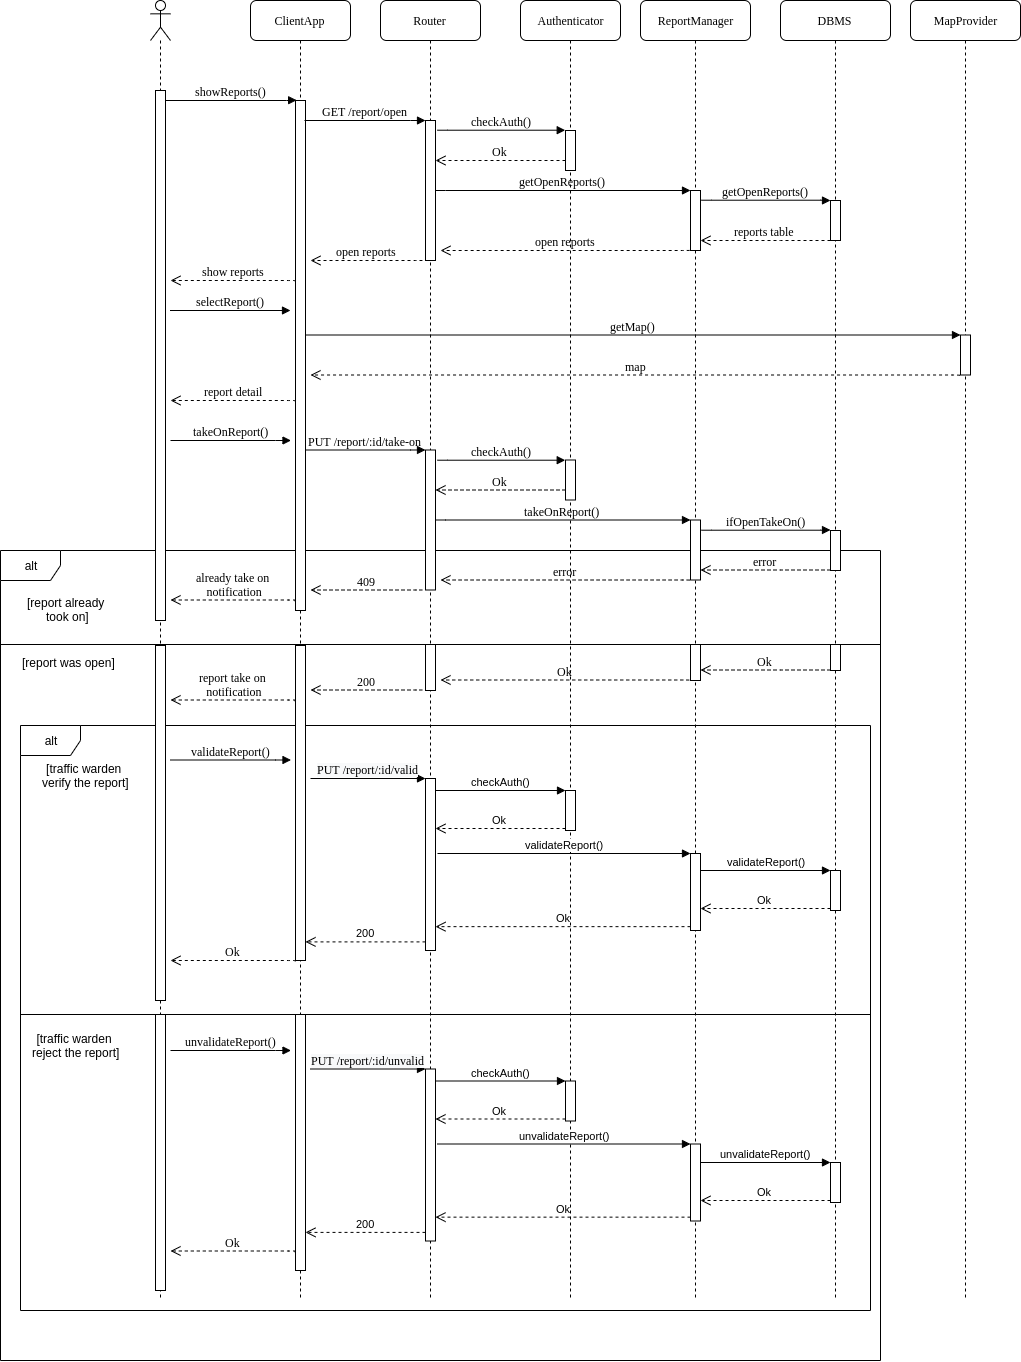
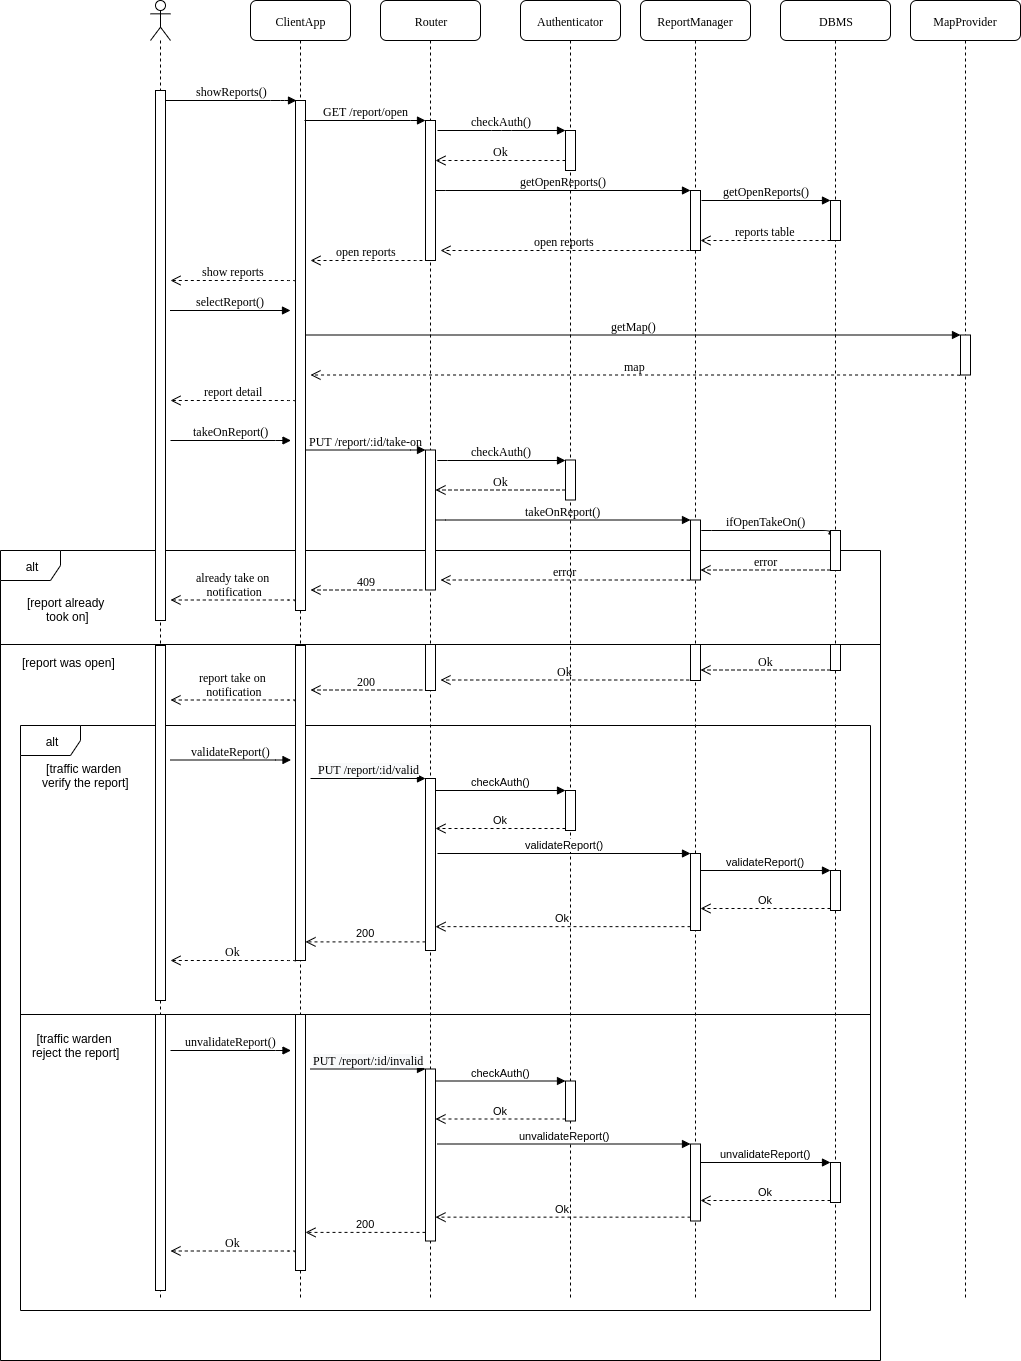
change http method + minor fix RASD

diff --git a/DD/DD-SafeStreets.tex b/DD/DD-SafeStreets.tex
@@ -313,17 +313,18 @@ This viewpoint consists of a set of interface specifications for each entity.
 \begin{itemize}
 	\item \textbf{Router}:
 		\begin{itemize}
-			\item \textbf{API:getReportTypes()}:
-			\item \textbf{API:sendReport()}:
-			\item \textbf{login()}:
-			\item \textbf{subscribe()}:
-			\item \textbf{getHighlightedArea()}:
-			\item \textbf{getRanking()}:
-			\item \textbf{getSuggestion()}:
-			\item \textbf{getOpenReports()}:
-			\item \textbf{takeOnReport()}:
-			\item \textbf{validateReport()}:
-			\item \textbf{unvalidateReport()}:
+			\item \textbf{GET /report/type}:
+			\item \textbf{POST /report}:
+			\item \textbf{POST /login}:
+			\item \textbf{POST /subscribe}:
+			\item \textbf{GET /highlight-area}:
+			\item \textbf{GET /ranking}:
+			\item \textbf{GET /suggestion}:
+			\item \textbf{GET /report/open}:
+			\item \textbf{PUT /report/:id/take-on}:
+			\item \textbf{PUT /report/:id/valid}:
+			\item \textbf{PUT /report/:id/invalid}:
+			\item \textbf{POST /location}:
 		\end{itemize}
 	\item \textbf{Authenticator}:
 		\begin{itemize}
@@ -443,7 +444,6 @@ The following requirements were described in the RASD:
 \end{itemize}
 
 Here it's explained how the requirements defined in the RASD map to the components defined in the previous sections.
-\\ \\
 \begin{tabular}{r|l}
 \hline
 \bf Requirement & \bf Components\\
@@ -503,7 +503,7 @@ The system is divided in the following subsystems which can be implemented indep
 \end{itemize}
 The idea is to adopt a bottom-up approach for the implementation strategy, but also, in order to provide first at least the key features of the system, the parts needed by those features will have an high priority.
 The table below lists the importance and implementation difficulty of the main features of the system which it is helpful to better understand the implementation and integration plans.
-\\ \\
+\\
 \begin{tabular}{c|c|c}
 \hline
 \bf Feature & \bf Importance for customers & \bf Implementation Difficulty\\
@@ -526,7 +526,7 @@ Show critical areas & Medium & Medium\\
 Show suggestions & Medium & Medium\\
 \hline
 \end{tabular}
-\\ \\
+\\
 The table shows how the priority is to have users sending reports and traffic wardens to take on them, which is the  main goal of the system.
 The functionalities that allow users to visualize data should pretty easy to provide as they consist in getting data from the database with simple queries and visualize it (as a plain list or on a map).
 A more challenging task is to provide an algorithm that can elaborate proper suggestions for possible interventions, however this is an advanced function that does not affect normal users.
